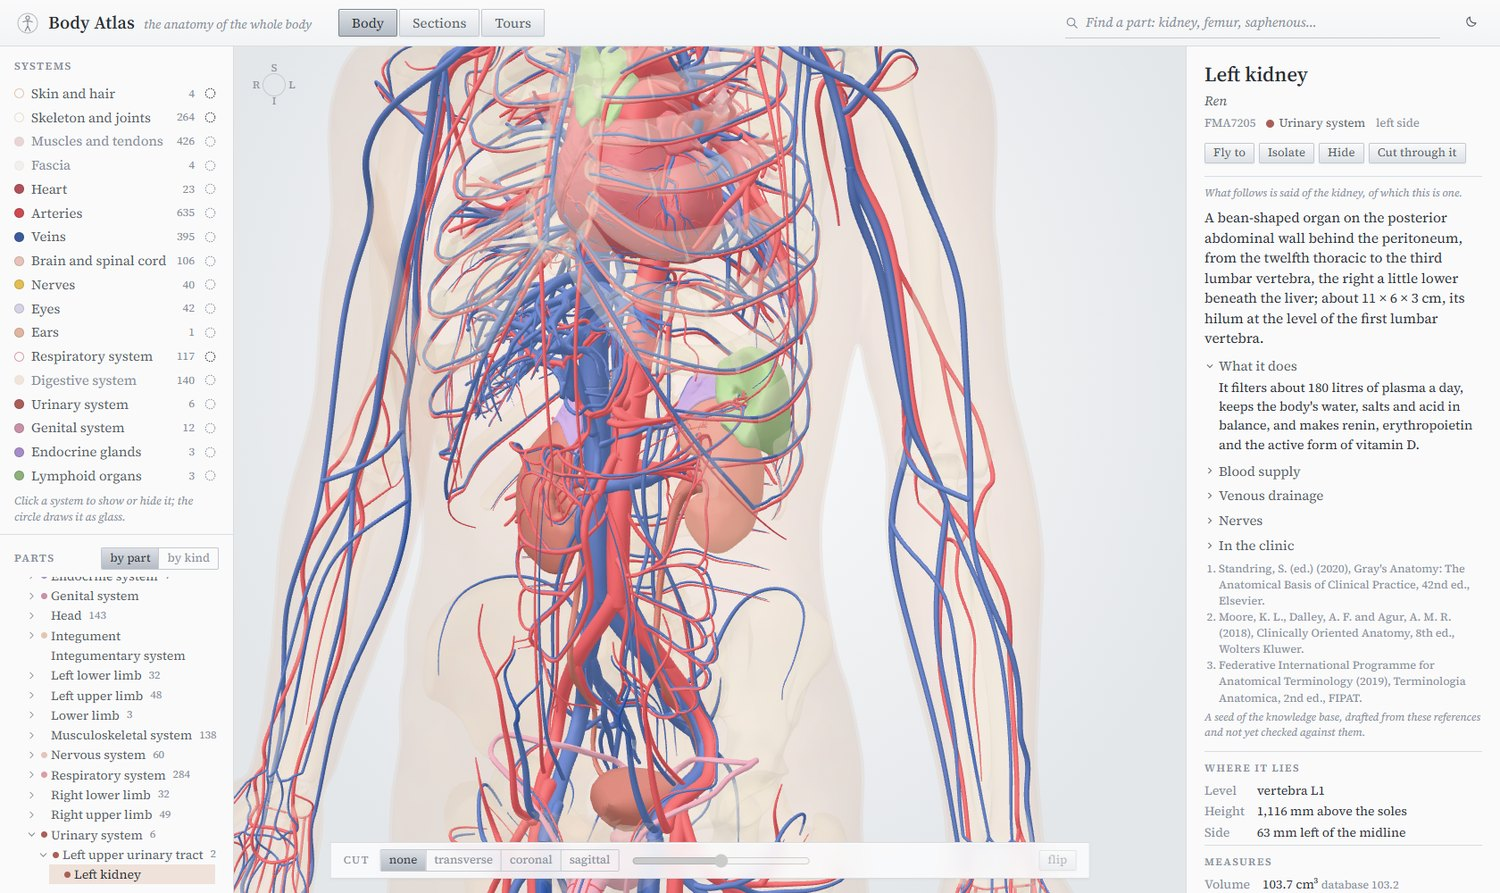
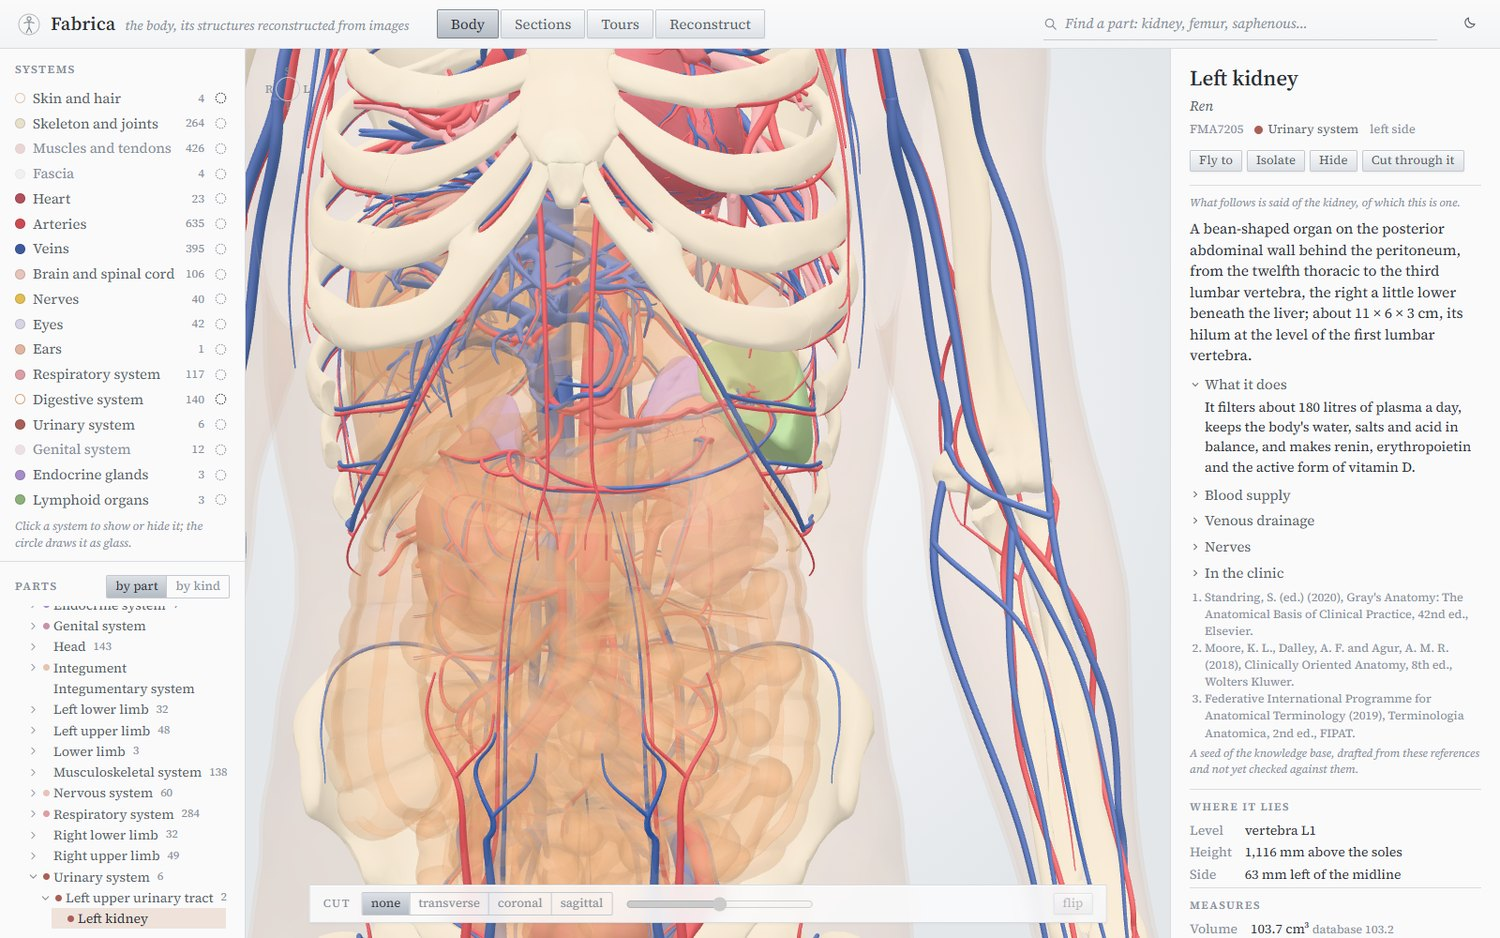
The body's pictures, the genital system hidden
The gallery's and the README's pictures of the body are retaken with the genital
system hidden, at the user's wish; the midsagittal plate is replaced by a section at L1.

diff --git a/development/release-notes/2026-11-04.md b/development/release-notes/2026-11-04.md
@@ -1,6 +1,10 @@
 # Release Notes: 4 November 2026
 
-## 1. Vessels Reconstructed from Images: eikon, Medical Imaging, and Fabrica
+## 1. The Body's Pictures, the Genital System Hidden
+
+In this update the gallery's and the README's pictures of the body are retaken with the genital system hidden, at the user's wish. The midsagittal plate, whose skin and veins still outlined the external genitalia, is replaced by a section at the first lumbar vertebra. Fabrica itself still shows the whole body when asked.
+
+## 2. Vessels Reconstructed from Images: eikon, Medical Imaging, and Fabrica
 
 In this update the infrastructure can reconstruct a person's vessels from their images, from one CT or from a CT and an MRA together, and say how well it did ([ADR 0070](../decisions/0070-structures-reconstructed-from-images.md)).
 
@@ -21,7 +25,7 @@ In this update the infrastructure can reconstruct a person's vessels from their 
 - **Fabrica.** The Body Atlas is renamed Fabrica, a workbench of the body: to show it, reconstruct it from images, analyse it, and carry simulations on it, diagnosis aside. Its Reconstruct mode shows the vessels in the round with their reference as glass, the image's slices as in imaging, and the measures and agreement on the card.
 - **Next.** Physiology is founded with `circulation`, and fluids will be a module of physis. The flow of blood in the reconstructed veins comes next, in the order a survey of the literature set out (`research/literature/reports/Vessel reconstruction and blood flow.md`). calx gained the closed-form 3 × 3 eigenproblem these methods need at every voxel.
 
-## 2. What a District Remembers, and the Probability of Its Record
+## 3. What a District Remembers, and the Probability of Its Record
 
 Event Spacetime now says how long Melbourne's district remembers its uses, and gives the probability of its record over the complex it draws (stages E3 and E4 of [ADR 0067](../decisions/0067-event-spacetime.md); [physis decision 0020](https://github.com/huangwanhong-maker/physis/blob/main/development/decisions/0020-chains-on-a-classified-set-and-the-probability-of-a-record.md)).
 
@@ -31,7 +35,7 @@ Event Spacetime now says how long Melbourne's district remembers its uses, and g
 - **Rates.** A further tab gives each kind of event per thousand years of the volumes it touches, with Poisson's errors: permits by kind on the streets, buildings built, refurbished or entered on the Heritage Register.
 - **Beneath it.** physis can now fit chains on any classified set and contract any record of cells joined at events. The urban-science domain's `events` module uses both.
 
-## 3. The Names of Places, Areas in Dispute, and a 2D GIS
+## 4. The Names of Places, Areas in Dispute, and a 2D GIS
 
 The maps no longer draw names that are in dispute ([ADR 0069](../decisions/0069-names-of-places-and-a-2d-gis.md)). Every product and map now names places by one policy, a file of the data library.
 
@@ -41,7 +45,7 @@ The maps no longer draw names that are in dispute ([ADR 0069](../decisions/0069-
 - **The text agrees.** The economics notes and the gallery's captions say Chinese Taipei, and seas in dispute are described rather than named.
 - **A 2D GIS.** The visualization layer now has maps of the sphere in the plane: projections and great-circle arcs, zoom and pan, names placed without overlap, the areas in dispute, and figures for publication. The Economy Atlas's map stands on it, so another application's map need not be written again.
 
-## 4. The Body Atlas, and the Anatomy Domain
+## 5. The Body Atlas, and the Anatomy Domain
 
 The infrastructure has its first atlas of the whole human body, the *Body Atlas*, and a domain beneath it, anatomy ([ADR 0066](../decisions/0066-the-anatomy-domain-and-the-body-atlas.md)). The body is BodyParts3D's adult man: 2,234 parts, each named by the Foundational Model of Anatomy (CC BY 4.0).
 
@@ -60,7 +64,7 @@ The infrastructure has its first atlas of the whole human body, the *Body Atlas*
 
 Next come the veins reconstructed from images, and the flow in them.
 
-## 5. Event Spacetime: a City's Events as a 2-Complex, in the Urban Science Workbench
+## 6. Event Spacetime: a City's Events as a 2-Complex, in the Urban Science Workbench
 
 The Urban Building Workbench is now the Urban Science Workbench, at the user's word, and it has a third plug-in, *Event Spacetime* ([ADR 0067](../decisions/0067-event-spacetime.md)). It draws a district's record of real events as a 2-complex in spacetime: its volumes rise as worldlines (buildings, the spaces of streets and of junctions), the interfaces between them stand as sheets (party walls, frontages, the ends of streets) cut at the events that meet them, and the events are vertices at their place and date.
 
@@ -71,16 +75,16 @@ The Urban Building Workbench is now the Urban Science Workbench, at the user's w
 
 The design, with the formalism for the planned paper *Event-Based 3D GIS on a 2-Complex: A Spin-Foam Approach*, is in [the ideas](../ideas/2026-11-04-event-based-gis-on-a-2-complex.md). The amplitudes and their modes come next.
 
-## 6. The Economy Atlas as a Scholarly Instrument
+## 7. The Economy Atlas as a Scholarly Instrument
 
 The Economy Atlas is redrawn as a research instrument ([ADR 0068](../decisions/0068-the-economy-atlas-as-a-scholarly-instrument.md)), after a brief the user handed in, its good points taken and others left. Its surfaces are porcelain and its ink graphite; gold marks only what is chosen or in focus, and the data keep their own validated colours. Controls are square-cornered and of one height, numbers are set in tabular figures, and section heads in small capitals on hairlines. The side panels fold away so that the map fills the window; the map names its projection and the place under the pointer, and every legend its source and unit. The address follows the view, so a link draws it again. The map can be saved as a figure composed for publication, with title, legend, source, projection and link, as SVG with its type written in or as PNG. The gallery's pictures were taken again in it.
 
-## 7. A Toolbox of Quantitative Economics, on Two New Foundations
+## 8. A Toolbox of Quantitative Economics, on Two New Foundations
 
 The Economy Atlas answers the ordinary questions of quantitative economics. A fifth view, the Toolbox, holds 27 tools: summaries and correlations; linear regression with robust or clustered errors; logit, probit and Poisson with marginal effects; panels with fixed and random effects and Hausman's test; instrumental variables; differences in differences; the convergence of incomes; autocorrelation, unit roots, ARIMA with forecasts, the Hodrick–Prescott filter, VARs and cointegration; inequality, poverty, concentration and index numbers; the gravity of trade by PPML, the concentration of partners and trade intensity; the Solow model, IS–LM and growth accounting; two-player and zero-sum games, stable matching and voting rules. Each opens on an example and runs at once, on the economies by year (their trade beside eleven of the World Bank's indicators), the currencies by month, a table of one's own or one pasted, and what it finds for the economies can be drawn on the map. On the 2024 trade, gravity's distance elasticity is −0.94 by PPML, against −1.46 by least squares on logarithms, which must drop the 11,164 pairs that do not trade.
 
 Two foundations carry it ([ADR 0048](../decisions/0048-the-inference-foundation-tyche.md), [ADR 0056](../decisions/0056-nomos-and-a-toolbox-of-quantitative-economics.md)): tyche, for statistics, and nomos, new, for the methods of the social sciences (measurement, index numbers, games, matching, social choice and econometrics, 242 checks). The economics domain gained growth, the short run and trade (109 checks). The map finds a place, plays through the years, colours the economies by the flows' measures or by any of the World Bank's indicators on a scale no outlier can wash out, shows a place's years, and gives its numbers and its drawing away as CSV and SVG; its colours are lighter. tyche's Hodrick–Prescott filter now solves for the cycle first and is exact to rounding. The gallery's Economy Atlas pictures were taken again, with three of the toolbox and the map's new colouring.
 
-## 8. Cosmopoiesis as a Submodule
+## 9. Cosmopoiesis as a Submodule
 
 Cosmopoiesis is now part of the infrastructure's repository as a git submodule at `applications/cosmopoiesis-lab`, beside the foundations and the neuroscience domain. It keeps its own repository, history and branch; the infrastructure names the commit it stands on. A clone made with `--recurse-submodules` now brings Cosmopoiesis with everything its engine computes on, so the whole of it runs from one clone.

diff --git a/docs/gallery.md b/docs/gallery.md
@@ -586,7 +586,7 @@ A three-dimensional GIS of Melbourne's centre, its streets read as a sea, after 
 
 ## 11. The Body Atlas
 
-*The Body Atlas is now Fabrica ([ADR 0070](../development/decisions/0070-structures-reconstructed-from-images.md)); these are its Body, Sections and Tours modes. Its reconstructions are in §12.*
+*The Body Atlas is now Fabrica ([ADR 0070](../development/decisions/0070-structures-reconstructed-from-images.md)); these are its Body, Sections and Tours modes. Its reconstructions are in §12. In these pictures the genital system is hidden, at the user's wish for the gallery; Fabrica shows the whole body when asked.*
 
 The whole body of BodyParts3D's adult man, 2,234 parts named by the Foundational Model of Anatomy, through the anatomy domain ([ADR 0066](../development/decisions/0066-the-anatomy-domain-and-the-body-atlas.md)). Every measure on a card is the domain's: the topology of the part's mesh by morphe, the solid it bounds by physis. Every cut is the domain's section of the meshes, drawn in the conventions of imaging. Silver white by day, silver on graphite by night, at the user's choice; rose gold marks what is chosen.
 
@@ -600,7 +600,7 @@ The whole body of BodyParts3D's adult man, 2,234 parts named by the Foundational
 <td width="50%" valign="top"><a href="../assets/gallery/body-04-section-t10.jpg"><img src="../assets/gallery/body-04-section-t10.jpg" alt="A transverse section at the tenth thoracic vertebra as a plate, seen from below as in CT, its parts named on leader lines"></a><br><b>A section at T10</b>: The Sections mode: the body cut at the tenth thoracic vertebra (read from the model's own vertebrae) and drawn as a plate, seen from the feet as a CT scan is, the subject's left on the right. The liver's segments, the inferior vena cava (chosen, on the left of the image) and the aorta beside the vertebra; the larger pieces named in the margins.</td>
 </tr>
 <tr>
-<td width="50%" valign="top"><a href="../assets/gallery/body-05-midsagittal.jpg"><img src="../assets/gallery/body-05-midsagittal.jpg" alt="The midsagittal section of the whole body as a plate: the brain, the spinal column, the heart, the gut and the pelvic organs"></a><br><b>The midsagittal plate</b>: The whole body cut on its midline and seen from the left, anterior on the image's left: the brain and cerebellum, the tongue and trachea, the vertebral column from the atlas to the sacrum, the heart and its cavities, the liver, the gut and the bladder. 313 parts are cut; the cut body stands beside the plate in the round.</td>
+<td width="50%" valign="top"><a href="../assets/gallery/body-05-section-l1.jpg"><img src="../assets/gallery/body-05-section-l1.jpg" alt="A transverse section at the first lumbar vertebra as a plate, the kidneys, pancreas, duodenum, aorta and inferior vena cava named"></a><br><b>A section at L1</b>: The body cut at the first lumbar vertebra and drawn as a plate, seen from the feet as in imaging: both kidneys, the pancreas and duodenum, the aorta and the inferior vena cava before the vertebra, the colon and the abdominal wall's muscles; 172 parts are cut. The trunk beside it is seen from below.</td>
 <td width="50%" valign="top"><a href="../assets/gallery/body-06-saphenous-calibre.jpg"><img src="../assets/gallery/body-06-saphenous-calibre.jpg" alt="The veins alone, the right great saphenous vein chosen, its card with its calibre along its length"></a><br><b>The great saphenous vein</b>: The veins alone, the right great saphenous vein chosen: 822 mm long, one closed surface of genus 0, 9.46 cm³ as the database gives it. Its calibre along its length, the diameter of a circle of each cross-section's area, widens from about 3 mm at the ankle to about 5 mm at the groin; it touches the dorsal venous arch of the foot and the femoral vein at the saphenofemoral junction.</td>
 </tr>
 <tr>

diff --git a/development/release-notes/README.md b/development/release-notes/README.md
@@ -13,7 +13,7 @@ A running record, for readers, of what each commit made possible or better, in t
 
 | Date | Commits |
 |---|---|
-| [2026-11-04](2026-11-04.md) | Vessels reconstructed from images: eikon, medical imaging, and Fabrica; What a district remembers, and the probability of its record; the names of places, areas in dispute, and a 2D GIS; the Body Atlas, and the anatomy domain; Event Spacetime, a city's events as a 2-complex, in the Urban Science Workbench; the Economy Atlas as a scholarly instrument; a toolbox of quantitative economics, on two new foundations; Cosmopoiesis as a submodule |
+| [2026-11-04](2026-11-04.md) | The body's pictures, the genital system hidden; Vessels reconstructed from images: eikon, medical imaging, and Fabrica; What a district remembers, and the probability of its record; the names of places, areas in dispute, and a 2D GIS; the Body Atlas, and the anatomy domain; Event Spacetime, a city's events as a 2-complex, in the Urban Science Workbench; the Economy Atlas as a scholarly instrument; a toolbox of quantitative economics, on two new foundations; Cosmopoiesis as a submodule |
 | [2026-11-01](2026-11-01.md) | Abnormal genomes: the international notations, their detection, and expression read from sequence; New York in the Urban Building Workbench; Landscape Dynamics, quieter: one thing at a time |
 | [2026-10-31](2026-10-31.md) | The district as a complex to work on, its buildings among its cells; landscapes as cells: their events, their composition and their spacetime; the domains of life, from the molecule to the ecosystem; streets read as a sea: the urban-science domain and the Urban Building Workbench; bodies with joints: a rabbit on the Moon, a fish in the ocean, a dog on the ground |
 | [2026-10-30](2026-10-30.md) | Contributors, their terms, and a steward; Cosmopoiesis in the gallery, and a flight to where one already looks; the Earth beneath: CRUST1.0 over PREM, sections along geodesics; Cosmopoiesis's world beneath and its precision console |

diff --git a/README.md b/README.md
@@ -102,7 +102,7 @@ An integrative infrastructure for learning, using and researching all domains of
 </p>
 <p align="center">
 <a href="docs/gallery.md"><img src="assets/gallery/body-02-kidneys.jpg" width="32%" alt="The kidneys between the aorta and the inferior vena cava, the left kidney chosen with its card, in the Body Atlas"></a>
-<a href="docs/gallery.md"><img src="assets/gallery/body-05-midsagittal.jpg" width="32%" alt="The midsagittal section of the whole body as a plate, its parts named, in the Body Atlas"></a>
+<a href="docs/gallery.md"><img src="assets/gallery/body-05-section-l1.jpg" width="32%" alt="A transverse section at the first lumbar vertebra as a plate, its parts named, in the Body Atlas"></a>
 <a href="docs/gallery.md"><img src="assets/gallery/body-06-saphenous-calibre.jpg" width="32%" alt="The great saphenous vein chosen, with its calibre along its length, in the Body Atlas"></a>
 </p>
 <p align="center"><i>The Body Atlas: the whole body of an adult man, every part named by the Foundational Model of Anatomy and measured by the anatomy domain, by system, cut in the planes of imaging and drawn as anatomical plates; a card for each part with what is known of it, where it lies, what it touches, and for a vessel its calibre along its course.</i></p>
